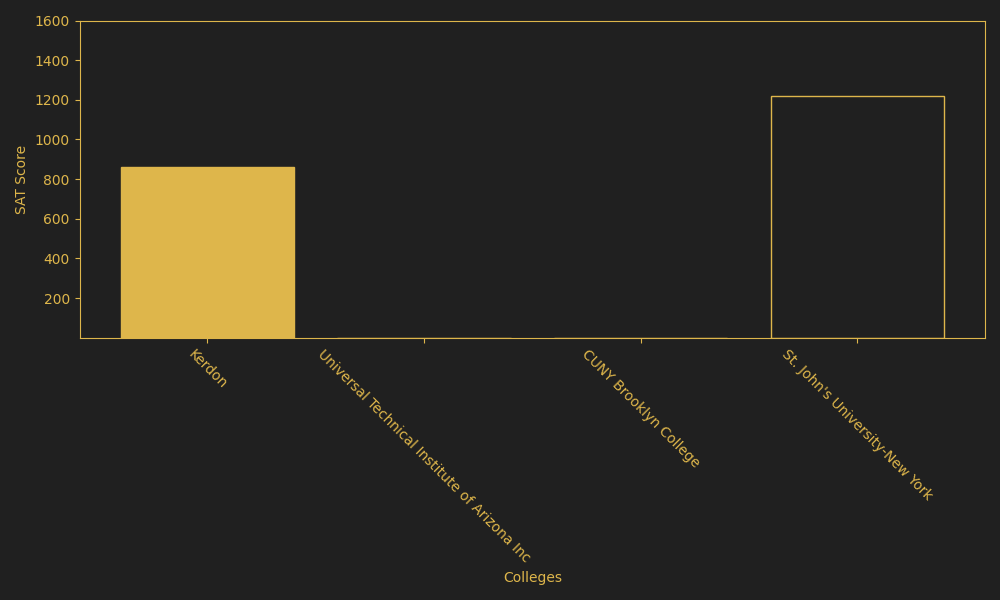
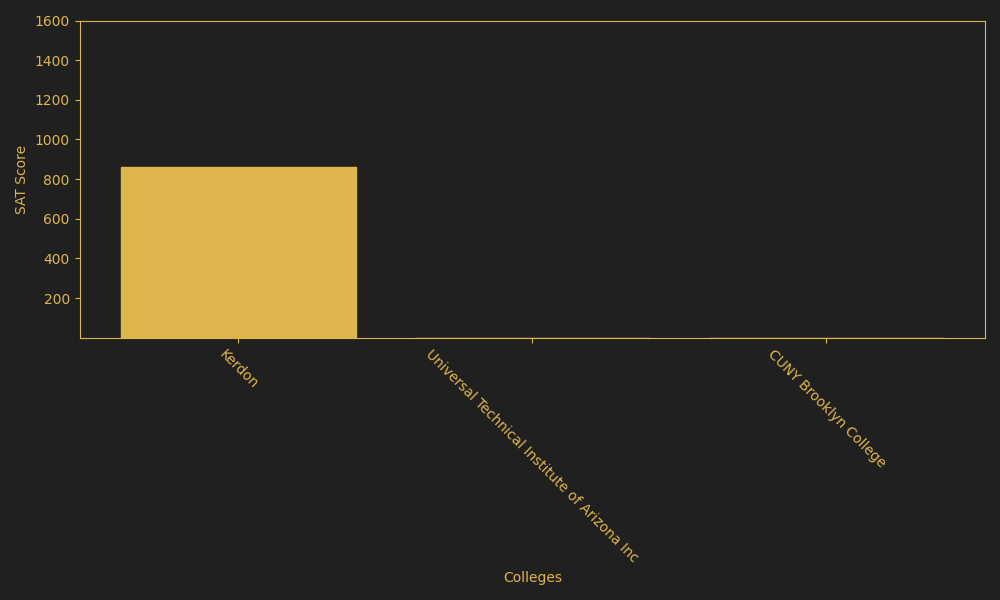
10045-153-Fix-graph-generation (#71)
* Revert "responsiveness remaster on hp (#60)"

This reverts commit 3b47168b7564f888bca23a8949e2a376c67853ba.

* Yuhh

* Complete graph generation
-And embedding the generated graph into flask applictaion

* Graph generation and display done!

* (IGNORE THE TEXT ON TOP)

diff --git a/main.py b/main.py
@@ -183,6 +183,7 @@ def login_page():
 # Browse colleges
 @app.route("/browse", methods=["Post", "GET"])
 def browse():
+    
     #Browse area
     page = int(request.args.get('page', '1'))
     query = request.args.get('query')
@@ -220,12 +221,30 @@ def browse():
 # Analytics page (college and user graphs for comparison and analysis)
 @app.route("/analytics", methods=["Post", "GET"])
 def analytics_page():
-    return render_template('analytics.html.jinja')
+    
+    customer_id=flask_login.current_user.id
+
+    conn = connect_db()
+    cursor = conn.cursor()
+    
+    cursor.execute(f"""
+
+    SELECT `name`, `tuition`, `admission_rate`, `average_sat`, `size`, `city`, `state`, `longitude`, `latitude`
+    FROM `CollegeList`
+    LEFT JOIN `Colleges`
+    ON `CollegeList`.`college_id` = `Colleges`.`id`
+    AND `CollegeList`.`user_id`= %s 
+    WHERE `name` 
+            """,(customer_id))
+    
+    colleges=cursor.fetchall()
+    
+    return render_template('analytics.html.jinja', colleges=colleges)
 
 @app.route('/plot.png')
 def plot():
-    #Constant id (change to dynamic later)
-    customer_id=1
+    #User id (dynamic)
+    customer_id=flask_login.current_user.id
 
     #Settings for which graph to generate (will change dynamically)
     comparing_catagory=1
@@ -265,7 +284,7 @@ def plot():
     FROM `CollegeList`
     LEFT JOIN `Colleges`
     ON `CollegeList`.`college_id` = `Colleges`.`id`
-    AND `CollegeList`.`user_id`= %s 
+    WHERE `CollegeList`.`user_id`= %s 
             """,(customer_id))
 
     #Stores college results
